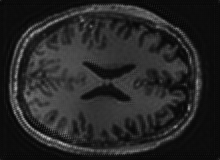
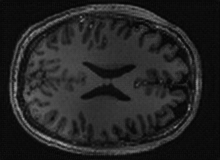
test_image_srf2_epoch=86

diff --git a/SRGAN_med_mri/test_image.py b/SRGAN_med_mri/test_image.py
@@ -14,8 +14,8 @@ parser = argparse.ArgumentParser(description='Test Single Image')
 parser.add_argument('--upscale_factor', default=2, type=int, help='super resolution upscale factor')
 parser.add_argument('--test_mode', default='GPU', type=str, choices=['GPU', 'CPU'], help='using GPU or CPU')
 parser.add_argument('--image_name', type=str, help='test low resolution image name')
-# 默认修改为epoch_2_18.pth(G为生成器,D为判别器(只在训练时使用))
-parser.add_argument('--model_name', default='netG_epoch_2_010.pth', type=str, help='generator model epoch name')
+# 默认修改为epoch_2_86.pth(G为生成器,D为判别器(只在训练时使用))
+parser.add_argument('--model_name', default='netG_epoch_2_86.pth', type=str, help='generator model epoch name')
 # 默认修改为epoch_4_22.pth(G为生成器,D为判别器(只在训练时使用))
 #parser.add_argument('--model_name', default='netG_epoch_4_22.pth', type=str, help='generator model epoch name')
 # 尝试修改为epoch_8_98.pth(G为生成器,D为判别器(只在训练时使用))
